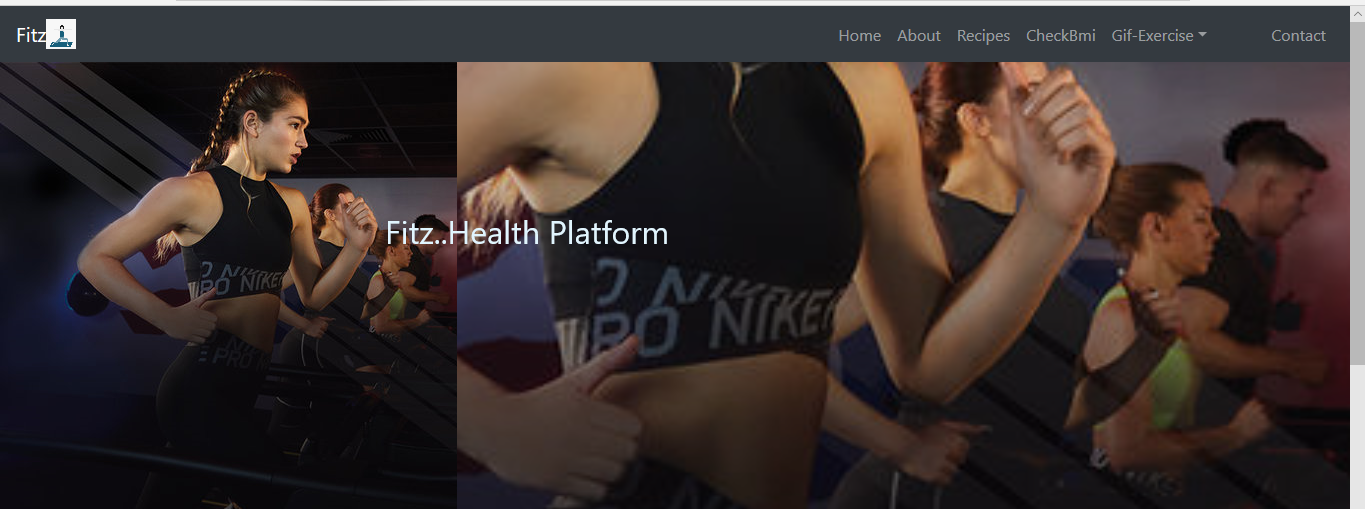
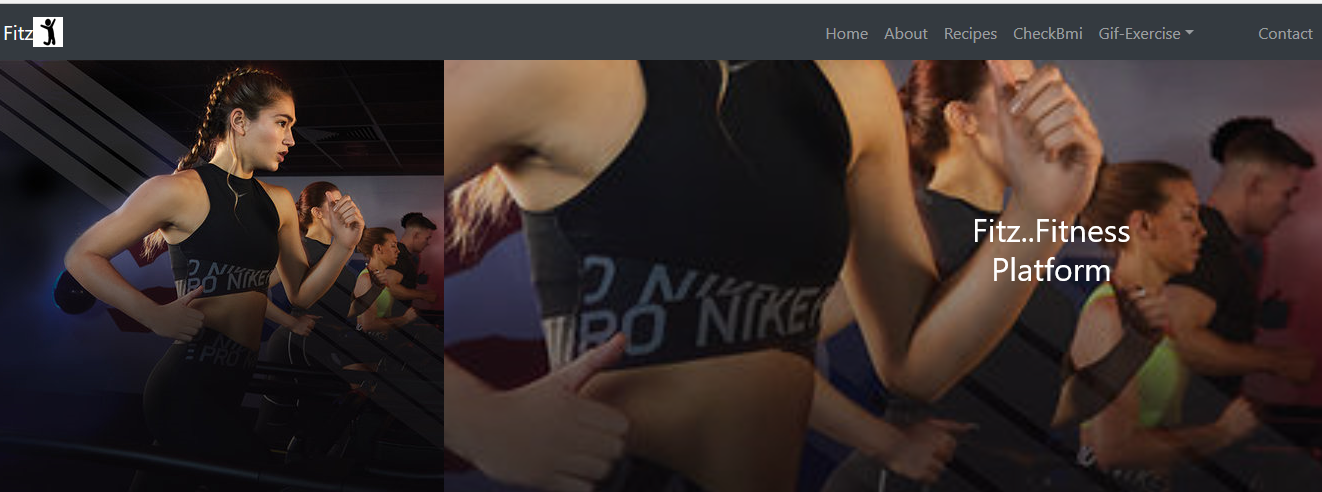
updated the skills section

diff --git a/index.html b/index.html
@@ -7,7 +7,8 @@
     <link href="css/style.css"rel ="stylesheet"type ="text/css"/>
     <link rel="shortcut icon" type="image/png" href="images/logo.png">
     <link rel="stylesheet" href="https://stackpath.bootstrapcdn.com/bootstrap/4.3.1/css/bootstrap.min.css" integrity="sha384-ggOyR0iXCbMQv3Xipma34MD+dH/1fQ784/j6cY/iJTQUOhcWr7x9JvoRxT2MZw1T" crossorigin="anonymous">
-    <link href="https://fonts.googleapis.com/css?family=Open+Sans&display=swap" rel="stylesheet">
+    <script src="https://kit.fontawesome.com/775cad35e3.js" crossorigin="anonymous"></script>
+   <link href="https://fonts.googleapis.com/css?family=Open+Sans&display=swap" rel="stylesheet">
     
     <title>omokiti portfolio</title>
    
@@ -18,7 +19,7 @@
         
          <nav class="navbar navbar-expand-lg">
                     <a class="navbar-brand ml-2" href="#">
-                            <img src="images/logo.png" width="50"  alt="my logo">
+                            <img src="images/logo.png" width="80"  alt="my logo">
                         </a>
                        
     
@@ -43,7 +44,7 @@
                                     <a class="nav-link" href="#projects">Projects</a>
                                 </li>
                                 <li class="nav-item ">
-                                    <a class="nav-link" href="https://docs.google.com/document/d/1B9e61V7qkcKKjRXywmR2u6SraymIOrUrzBYDqOQAqZc/edit?usp=sharing" >Resume</a>
+                                    <a class="nav-link" href="https://www.canva.com/design/DADw5LmBIDk/O2CQ72uqMM2qyUUkgHwZfg/view?utm_content=DADw5LmBIDk&utm_campaign=designshare&utm_medium=link&utm_source=publishsharelink" >Resume</a>
                                 </li>
                                 <li class="nav-item ">
                                     <a class="nav-link" href="#contact" >Contact</a>
@@ -67,7 +68,7 @@
                </div>
                <div class="col-md-6">
                    <h3>A LITTLE ABOUT EMAMUZO OMOKITI </h3>
-                   <P>EMAMUZO OMOKITI is a creative Front-end Developer<br/>
+                   <P>Emamuzo Omokiti is a creative Front-end Developer<br/>
                      who got intrested in tech after attending a tech workshop for ladies during her nysc<br/>
                      Then found out about the SGA Accelerator programme and took part in  the SGA Accelerator programme which shapened her career path.
                 </P>
@@ -75,43 +76,55 @@
            </div>
         </div>
         <hr/>
-        <div class="row pt-5">
+       
+        <div class="row">
+          <div class="row">
             <div class="col-md-12">
-                <h3 id="projecttext">What things I am  doing</h3>
+              <h3 id="projecttext">Skills</h3>
+             <div class="html">
+              <span>HTML</span>
+             </div>
+             
             </div>
-        </div>
-        <div class="row pt-4">
-        <div class="col-md-4 pl-4">
-            <div class="card" >
-                <img src="images/dribble.png" class="card-img-top" style="width:80px;"alt="user interface"/>
-                <div class="card-body">
-                  
-               <p class="card-text">Creating Beautiful User interface</p>
-                  
+           
+          </div>
+           <div class="row">
+             <div class="col-md-12">
+               <div class="css">
+                <span>CSS</span>
+               </div>
+             </div>
+           </div>
+
+              <div class="row">
+                <div class="col-md-12">
+                  <div class="js">
+                    <span>JAVASCRIPT</span>
+                  </div>
                 </div>
-              </div>
-               
                 
-           
-           
-        </div>
-        <div class="col-md-4">
-            <div class="card" >
-            <img src="images/responsiveness.png"class="card-img-top" style="width:80px;"alt="responsive design"/>
-            <div class="card-body">
-            <p class="card-text">Creating Responsive Design </p> 
-        </div>
-        </div>
-        </div>
-        <div class="col-md-4">
-            <div class="card" >
-            <img src="images/webdevelopment.png" class="card-img-top"style="width:80px;"alt="web development"/> <br/>
-            <div class="card-body">
-            <p class="card-text"> Web Development</p>
-        </div>
-        </div>
-    </div>
-</div>
+                </div>
+                <div class="row">
+                  <div class="col-md-12">
+                    <div class="react">
+                      <span>REACT</span>
+                    </div>
+                  </div>
+                  
+                  </div>
+
+                  <div class="row">
+                    <div class="col-md-12">
+                      <div class="react">
+                        <span>GIT</span>
+                      </div>
+                    </div>
+                    
+                    </div>
+          
+          </div>
+      
+      
         <hr/>
         <div id="projects">
             <div class="row pt-4">
@@ -122,12 +135,12 @@
             
            
         <div class="row">
-            <div class="col-md-3">
+            <div class="col-md-4">
                 <a href="https://catdogapp.netlify.com">
                 <div class="flip-cards">
                     <div class="flip-cards-inner">
                       <div class="flip-cards-front">
-                        <img src="images/catanddogapp.png" alt="cat and dog" style="width:300px;height:200px;">
+                        <img src="images/catanddogapp.png" alt="cat and dog" style="width:18.75rem;height:12.5rem;">
                       </div>
                       <div class="flip-cards-back">
                         <h5>Cat and Dog App</h5>
@@ -139,12 +152,12 @@
                 </a>
                   </div>
 
-                  <div class="col-md-3">
+                  <div class="col-md-4">
                     <a href="https://dictz.netlify.com/">
                     <div class="flip-cards">
                         <div class="flip-cards-inner">
                           <div class="flip-cards-front">
-                            <img src="images/dict.png" alt="cat and dog" style="width:300px;height:200px;">
+                            <img src="images/dict.png" alt="cat and dog" style="width:18.75rem;height:12.5rem;">
                           </div>
                           <div class="flip-cards-back">
                             <h5>Dictz App</h5>
@@ -156,12 +169,12 @@
                     </a>
                       </div>
             
-            <div class="col-md-3">
+            <div class="col-md-4">
                 <a href="https://github.com/Omokiti/fit">
                 <div class="flip-cards">
                     <div class="flip-cards-inner">
                       <div class="flip-cards-front">
-                        <img src="images/fit.png" alt="fitz" style="width:300px;height:200px;">
+                        <img src="images/fit.png" alt="fitz" style="width:18.75rem;height:12.5rem;">
                       </div>
                       <div class="flip-cards-back">
                         <h5>Fitz</h5>
@@ -172,26 +185,45 @@
                   </div>
                 </a>
             </div>
-            <div class="col-md-3">
-                <a href="https://nbastat.netlify.com/">
-                <div class="flip-cards">
-                    <div class="flip-cards-inner">
-                      <div class="flip-cards-front">
-                        <img src="images/nb.png" alt="nba" style="width:300px;height:200px;">
-                      </div>
-                      <div class="flip-cards-back">
-                        <h5>Nba stat</h5>
-                        <p>Nba stat gives Information about nba players</p>
-                        <p>Nba Stat was buit using Html,Css,Bootstrap,Javascript and Ball don't lie Api</p>
-                      </div>
-                    </div>
-                  </div>
-                </a>
-                </div>
+           
             
         
         </div>
-       
+        <div class="row pt-3">
+        <div class="col-md-4">
+            <a href="https://nbastat.netlify.com/">
+            <div class="flip-cards">
+                <div class="flip-cards-inner">
+                  <div class="flip-cards-front">
+                    <img src="images/nb.png" alt="nba" style="width:18.75rem;height:12.5rem;">
+                  </div>
+                  <div class="flip-cards-back">
+                    <h5>Nba stat</h5>
+                    <p>Nba stat gives Information about nba players</p>
+                    <p>Nba Stat was buit using Html,Css,Bootstrap,Javascript and Ball don't lie Api</p>
+                  </div>
+                </div>
+              </div>
+            </a>
+            </div>
+            <div class="col-md-4">
+              <a href="https://codezix.github.io/lance-event/index.html">
+              <div class="flip-cards">
+                  <div class="flip-cards-inner">
+                    <div class="flip-cards-front">
+                      <img src="images/lance events.png" alt="nba" style="width:18.75rem;height:12.5rem;">
+                    </div>
+                    <div class="flip-cards-back">
+                      <h5>Lance Events</h5>
+                      <p>An Event Booking System</p>
+                      <p> Lance Events was buit using Html,Css,Bootstrap & Vanilla javascript.
+                      </p>
+                    </div>
+                  </div>
+                </div>
+              </a>
+              </div>
+          </div>
         </div>
         <div id="contact">
             <footer>
@@ -205,13 +237,17 @@
            <p class="pl-5 footertext">I look forward hearing from you or working with you , <br/>you can get in touch with me using any of the platform below.</p> 
             <br/>
         </div>
-            <div class="col-md-2 pl-5">
-            <a href="https://github.com/Omokiti" id="footerimg"> <img src="images/github-1.svg"width="20px"alt="github" /></a>
+            <div class="col-md-4 pl-5">
+              <i class="far fa-envelope"></i> <br/>
+                momokiti@yahoo.com
         </div>
-              <div class="col-md-2">
-                <a href="https://www.linkedin.com/in/emamuzoomokiti/"> <img src="images/linkedin-icon-1.svg"width="20px"alt="linkedin"/></a>
+              <div class="col-md-4">
+                <i class="fas fa-phone"></i> <br/>
+                 07038175731
             </div>
-                <div class="col-md-2">
+                <div class="col-md-4 pt-3">
+                  <a href="https://github.com/Omokiti" id="footerimg"> <img src="images/github-1.svg"width="20px"alt="github" /></a>
+                  <a href="https://www.linkedin.com/in/emamuzoomokiti/"> <img src="images/linkedin-icon-1.svg"width="20px"alt="linkedin"/></a>
                 <a href="https://twitter.com/EmamuzoOmokiti"> <img src="images/twitter.png"width="20px"alt=twitter/></a>
             </div>
       

diff --git a/css/style.css b/css/style.css
@@ -7,7 +7,7 @@ font-family: 'Open Sans', sans-serif;
 .contin{
  position: relative;;
  margin:1.25rem;
- height:23.75rem;
+ height:200px;
 background-color: gray;
 color:#ffffff;
 position:relative;
@@ -16,7 +16,10 @@ position:relative;
 color:#22BFA0;
 }
 .rounded-circle{
-margin-left:28.125rem;
+margin-left:26.125rem;
+}
+#move{
+margin-top: 50px;
 }
 #logo{
 margin-right:43.75rem;
@@ -33,6 +36,10 @@ margin: auto 0;
  left: 50%;
  transform: translate(-50%, -50%);
  color:#ffffff;
+ }
+ span{
+  color:#ffffff;
+  margin: 5px 5px;
  }
 .crd{
 width:5.625rem;
@@ -65,7 +72,7 @@ margin: 2.5rem 1.25rem;
 }
 
 .card{
- box-shadow: 10px 10px 8px 10px #888888;
+ box-shadow: 3px 3px 3px 3px #888888;
 }
 .card:hover {
 box-shadow: 0 8px 16px 0 rgba(0,0,0,0.2);
@@ -75,17 +82,62 @@ color:#22BFA0;
 }
 .footertext{
 color:#ffffff;
-font-size:15px;
+font-size:0.938em;
 font-weight: bold;
+text-align: center;
+}
+.fa-envelope{
+margin-left:2.5rem;
+}
+.fa-phone{
+margin-left:2.5rem;
+}
+.html{
+height:1.25rem;
+width:43.75rem;
+background-color:#22BFA0; 
+border: 0;
+border-radius: 9px;
+margin: 1.25rem 15.625rem ;
 }
 
+.css{
+ height:1.25rem;
+  width:40.625rem;
+  background-color:#22BFA0; 
+  border: 0;
+  border-radius: 9px;
+  margin: 1.25rem 15.625rem ;
+}
+
+.js{
+  height:1.25rem;
+   width:37.5rem;
+   background-color:#22BFA0; 
+   border: 0;
+   border-radius: 9px;
+   margin: 1.25rem 15.625rem ;
+ }
+ 
+.react{
+  height:1.25rem;
+  width:31.25rem;
+  background-color:#22BFA0; 
+  border: 0;
+  border-radius: 9px;
+  margin:1.25rem 15.625rem ;
+}
+
+i{
+width:200px;
+}
 .nav-link{
 color:#ffffff;
 float:right;
 }
 footer{
 background: grey;
-height:25rem;
+min-height:26rem;
 }
 
 .card{
@@ -137,4 +189,7 @@ width:12.5rem;
     .centered{
     top:50%;
     }
+    .rounded-circle{
+      margin-left:12.125rem;
+      }
 }
